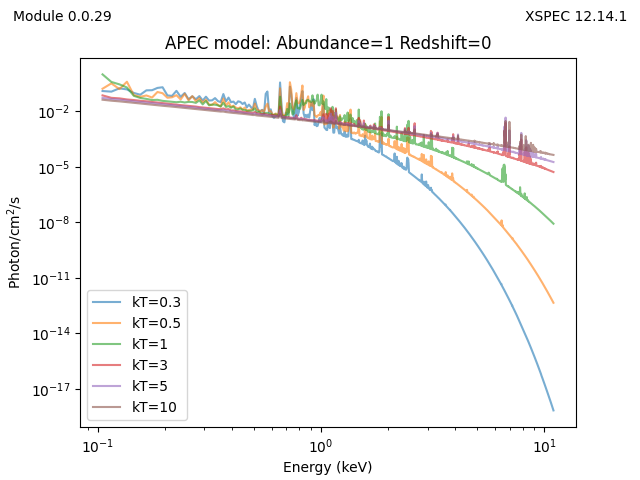
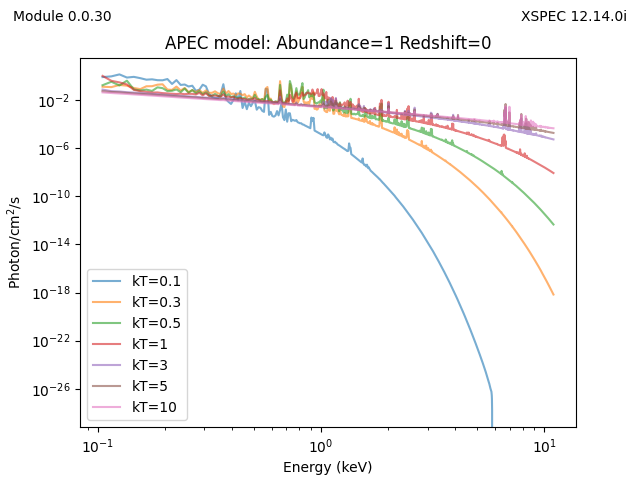
add kT=0.1 to plot
Update the README to match the latest version of the script

diff --git a/scripts/example.py b/scripts/example.py
@@ -27,7 +27,7 @@ def add_version():
 egrid = np.arange(0.1, 11, 0.01)
 emid = (egrid[:-1] + egrid[1:]) / 2
 
-for kT in [0.3, 0.5, 1, 3, 5, 10]:
+for kT in [0.1, 0.3, 0.5, 1, 3, 5, 10]:
     y = x.apec(energies=egrid, pars=[kT, 1, 0])
     plt.plot(emid, y, label=f'kT={kT}', alpha=0.6)
 
@@ -67,9 +67,9 @@ model = x.phabs(energies=egrid, pars=[0.05]) * x.apec(energies=egrid, pars=[0.5,
 plt.plot(emid, model, label='Unconvolved', c='k', alpha=0.8)
 
 for pars in [[0.1, 0], [0.2, -1], [0.2, 1]]:
-    # the model argument gets over-written by gsmooth
+    # the model argument gets over-written by gsmooth, hence the copy
     y = x.gsmooth(energies=egrid, pars=pars, model=model.copy())
-    plt.plot(emid, y, label=f'$\sigma$={pars[0]} index={pars[1]}', alpha=0.8)
+    plt.plot(emid, y, label=rf'$\sigma$={pars[0]} index={pars[1]}', alpha=0.8)
 
 plt.xscale('log')
 plt.yscale('log')

diff --git a/README.md b/README.md
@@ -107,7 +107,8 @@ import xspec_models_cxc as x
 x.chatter(0)  # Hide the screen messages
 
 vxspec = x.get_version()
-print(f"Version: {vxspec}")
+print(f"XSPEC version:  {vxspec}")
+print(f"Module version: {x.__version__}")
 
 def add_version():
     plt.text(0.98, 0.98, f"XSPEC {vxspec}",
@@ -115,11 +116,16 @@ def add_version():
              verticalalignment="top",
              horizontalalignment="right")
 
+    plt.text(0.02, 0.98, f"Module {x.__version__}",
+             transform=plt.gcf().transFigure,
+             verticalalignment="top",
+             horizontalalignment="left")
+
 
 egrid = np.arange(0.1, 11, 0.01)
 emid = (egrid[:-1] + egrid[1:]) / 2
 
-for kT in [0.3, 0.5, 1, 3, 5, 10]:
+for kT in [0.1, 0.3, 0.5, 1, 3, 5, 10]:
     y = x.apec(energies=egrid, pars=[kT, 1, 0])
     plt.plot(emid, y, label=f'kT={kT}', alpha=0.6)
 
@@ -159,9 +165,9 @@ model = x.phabs(energies=egrid, pars=[0.05]) * x.apec(energies=egrid, pars=[0.5,
 plt.plot(emid, model, label='Unconvolved', c='k', alpha=0.8)
 
 for pars in [[0.1, 0], [0.2, -1], [0.2, 1]]:
-    # the model argument gets over-written by gsmooth
+    # the model argument gets over-written by gsmooth, hence the copy
     y = x.gsmooth(energies=egrid, pars=pars, model=model.copy())
-    plt.plot(emid, y, label=f'$\sigma$={pars[0]} index={pars[1]}', alpha=0.8)
+    plt.plot(emid, y, label=rf'$\sigma$={pars[0]} index={pars[1]}', alpha=0.8)
 
 plt.xscale('log')
 plt.yscale('log')
@@ -180,8 +186,8 @@ plt.savefig('example-convolution.png')
 The screen output is just
 
 ```
-XSPEC version:  12.14.1
-Module version: 0.0.29
+XSPEC version:  12.14.1d
+Module version: 0.0.30
 ```
 
 and the plots are
